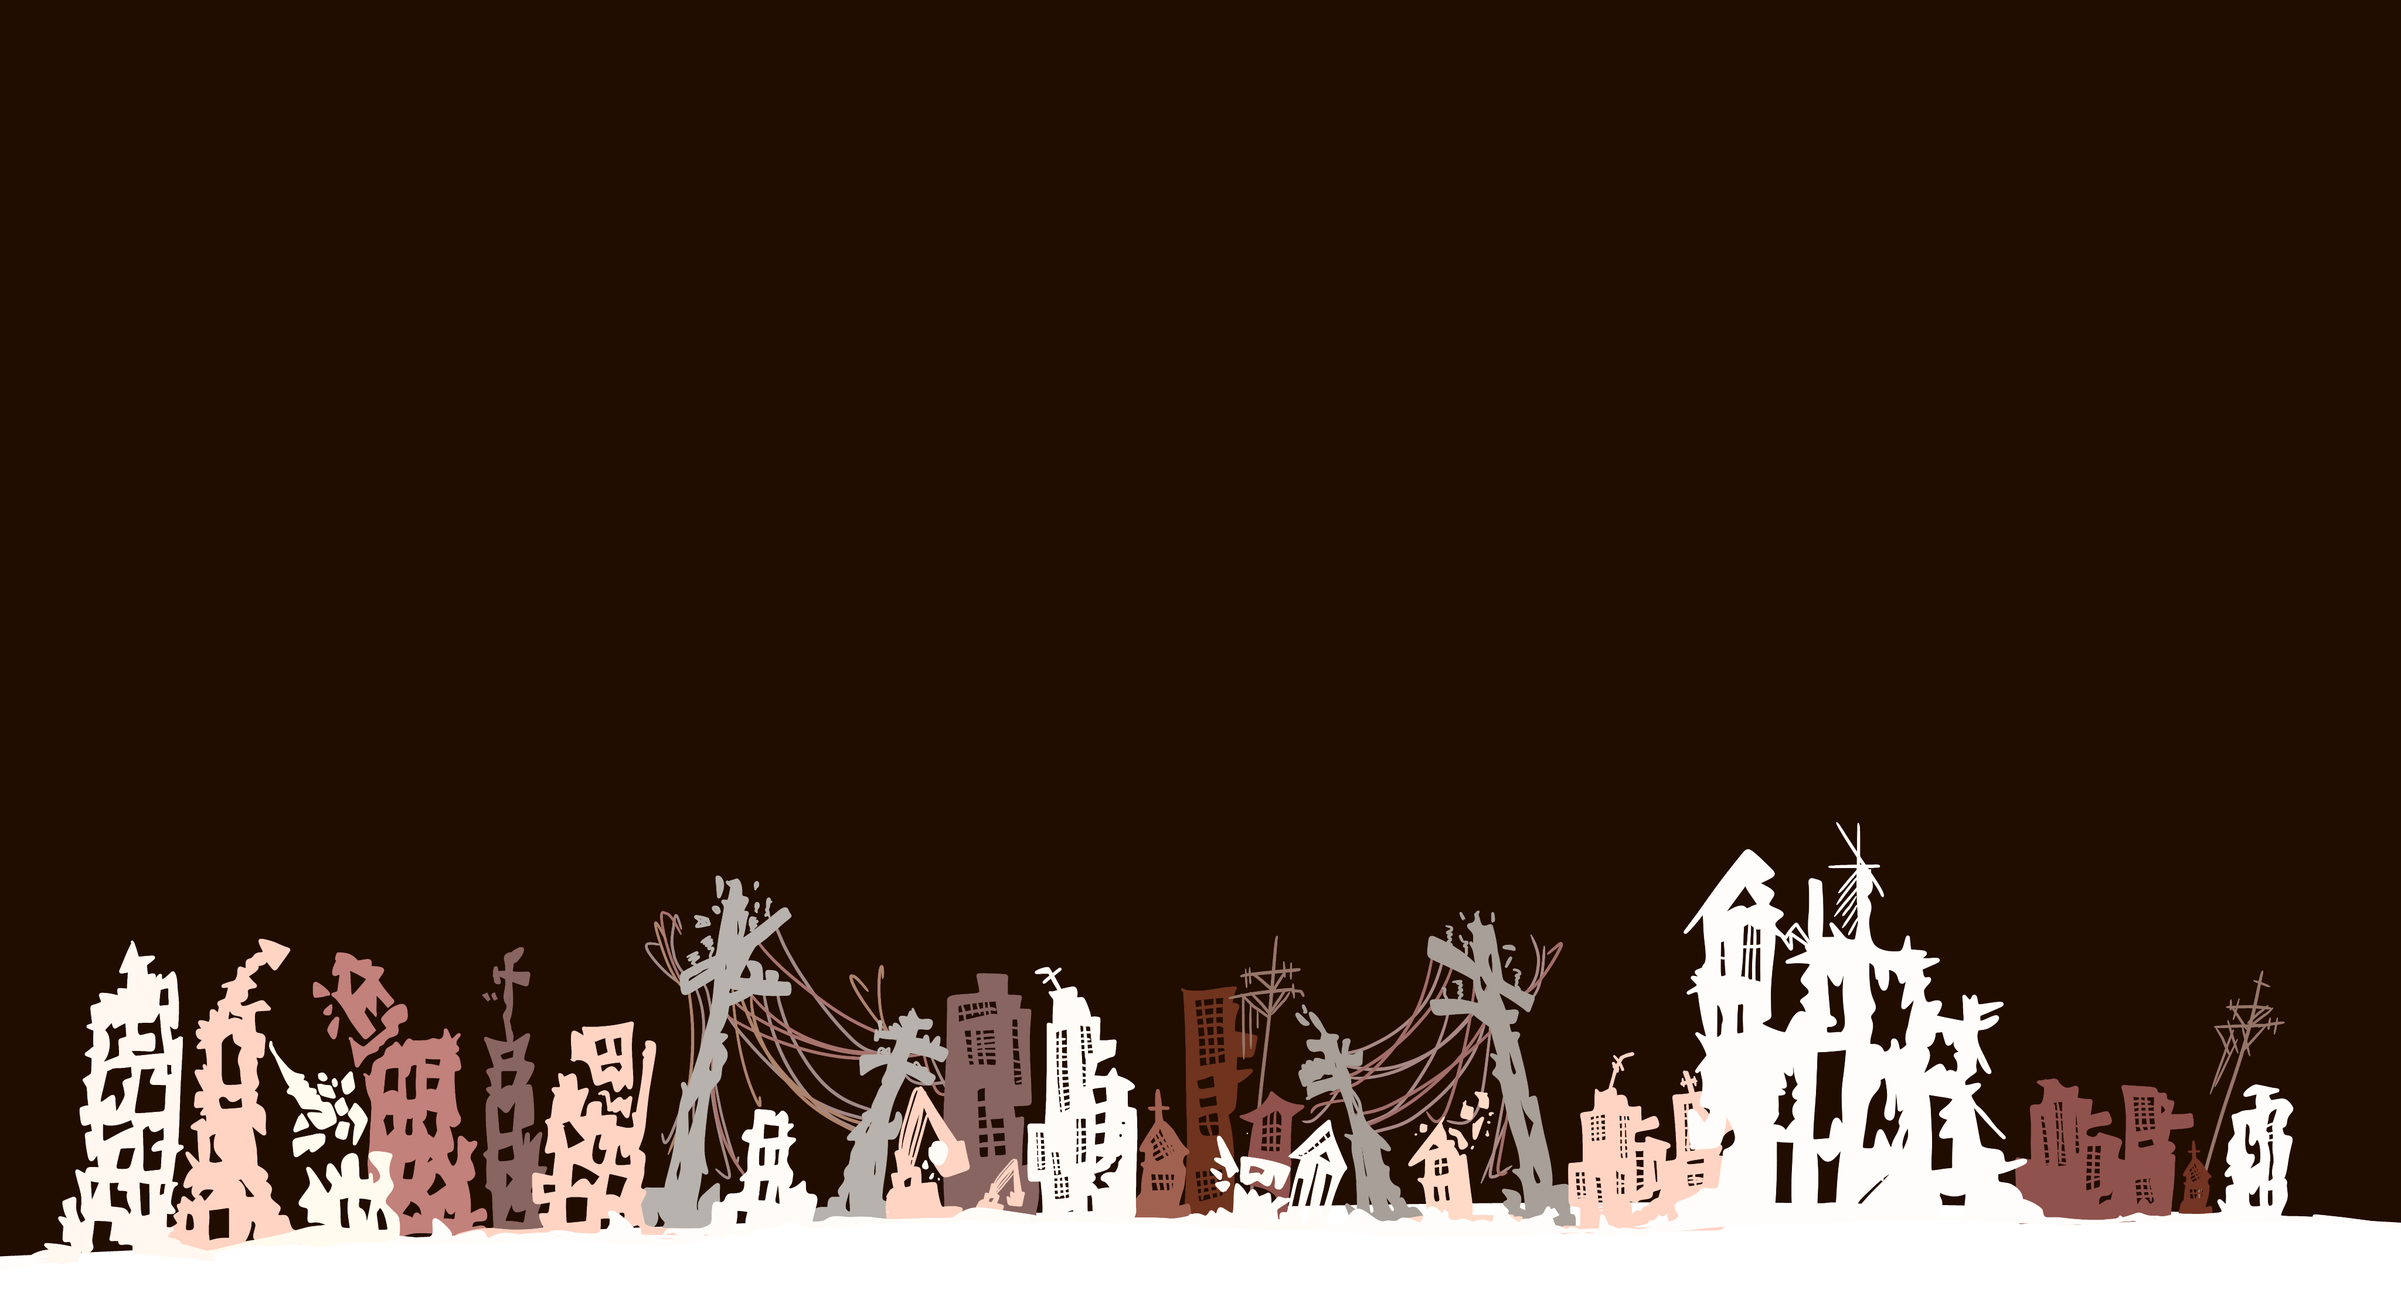
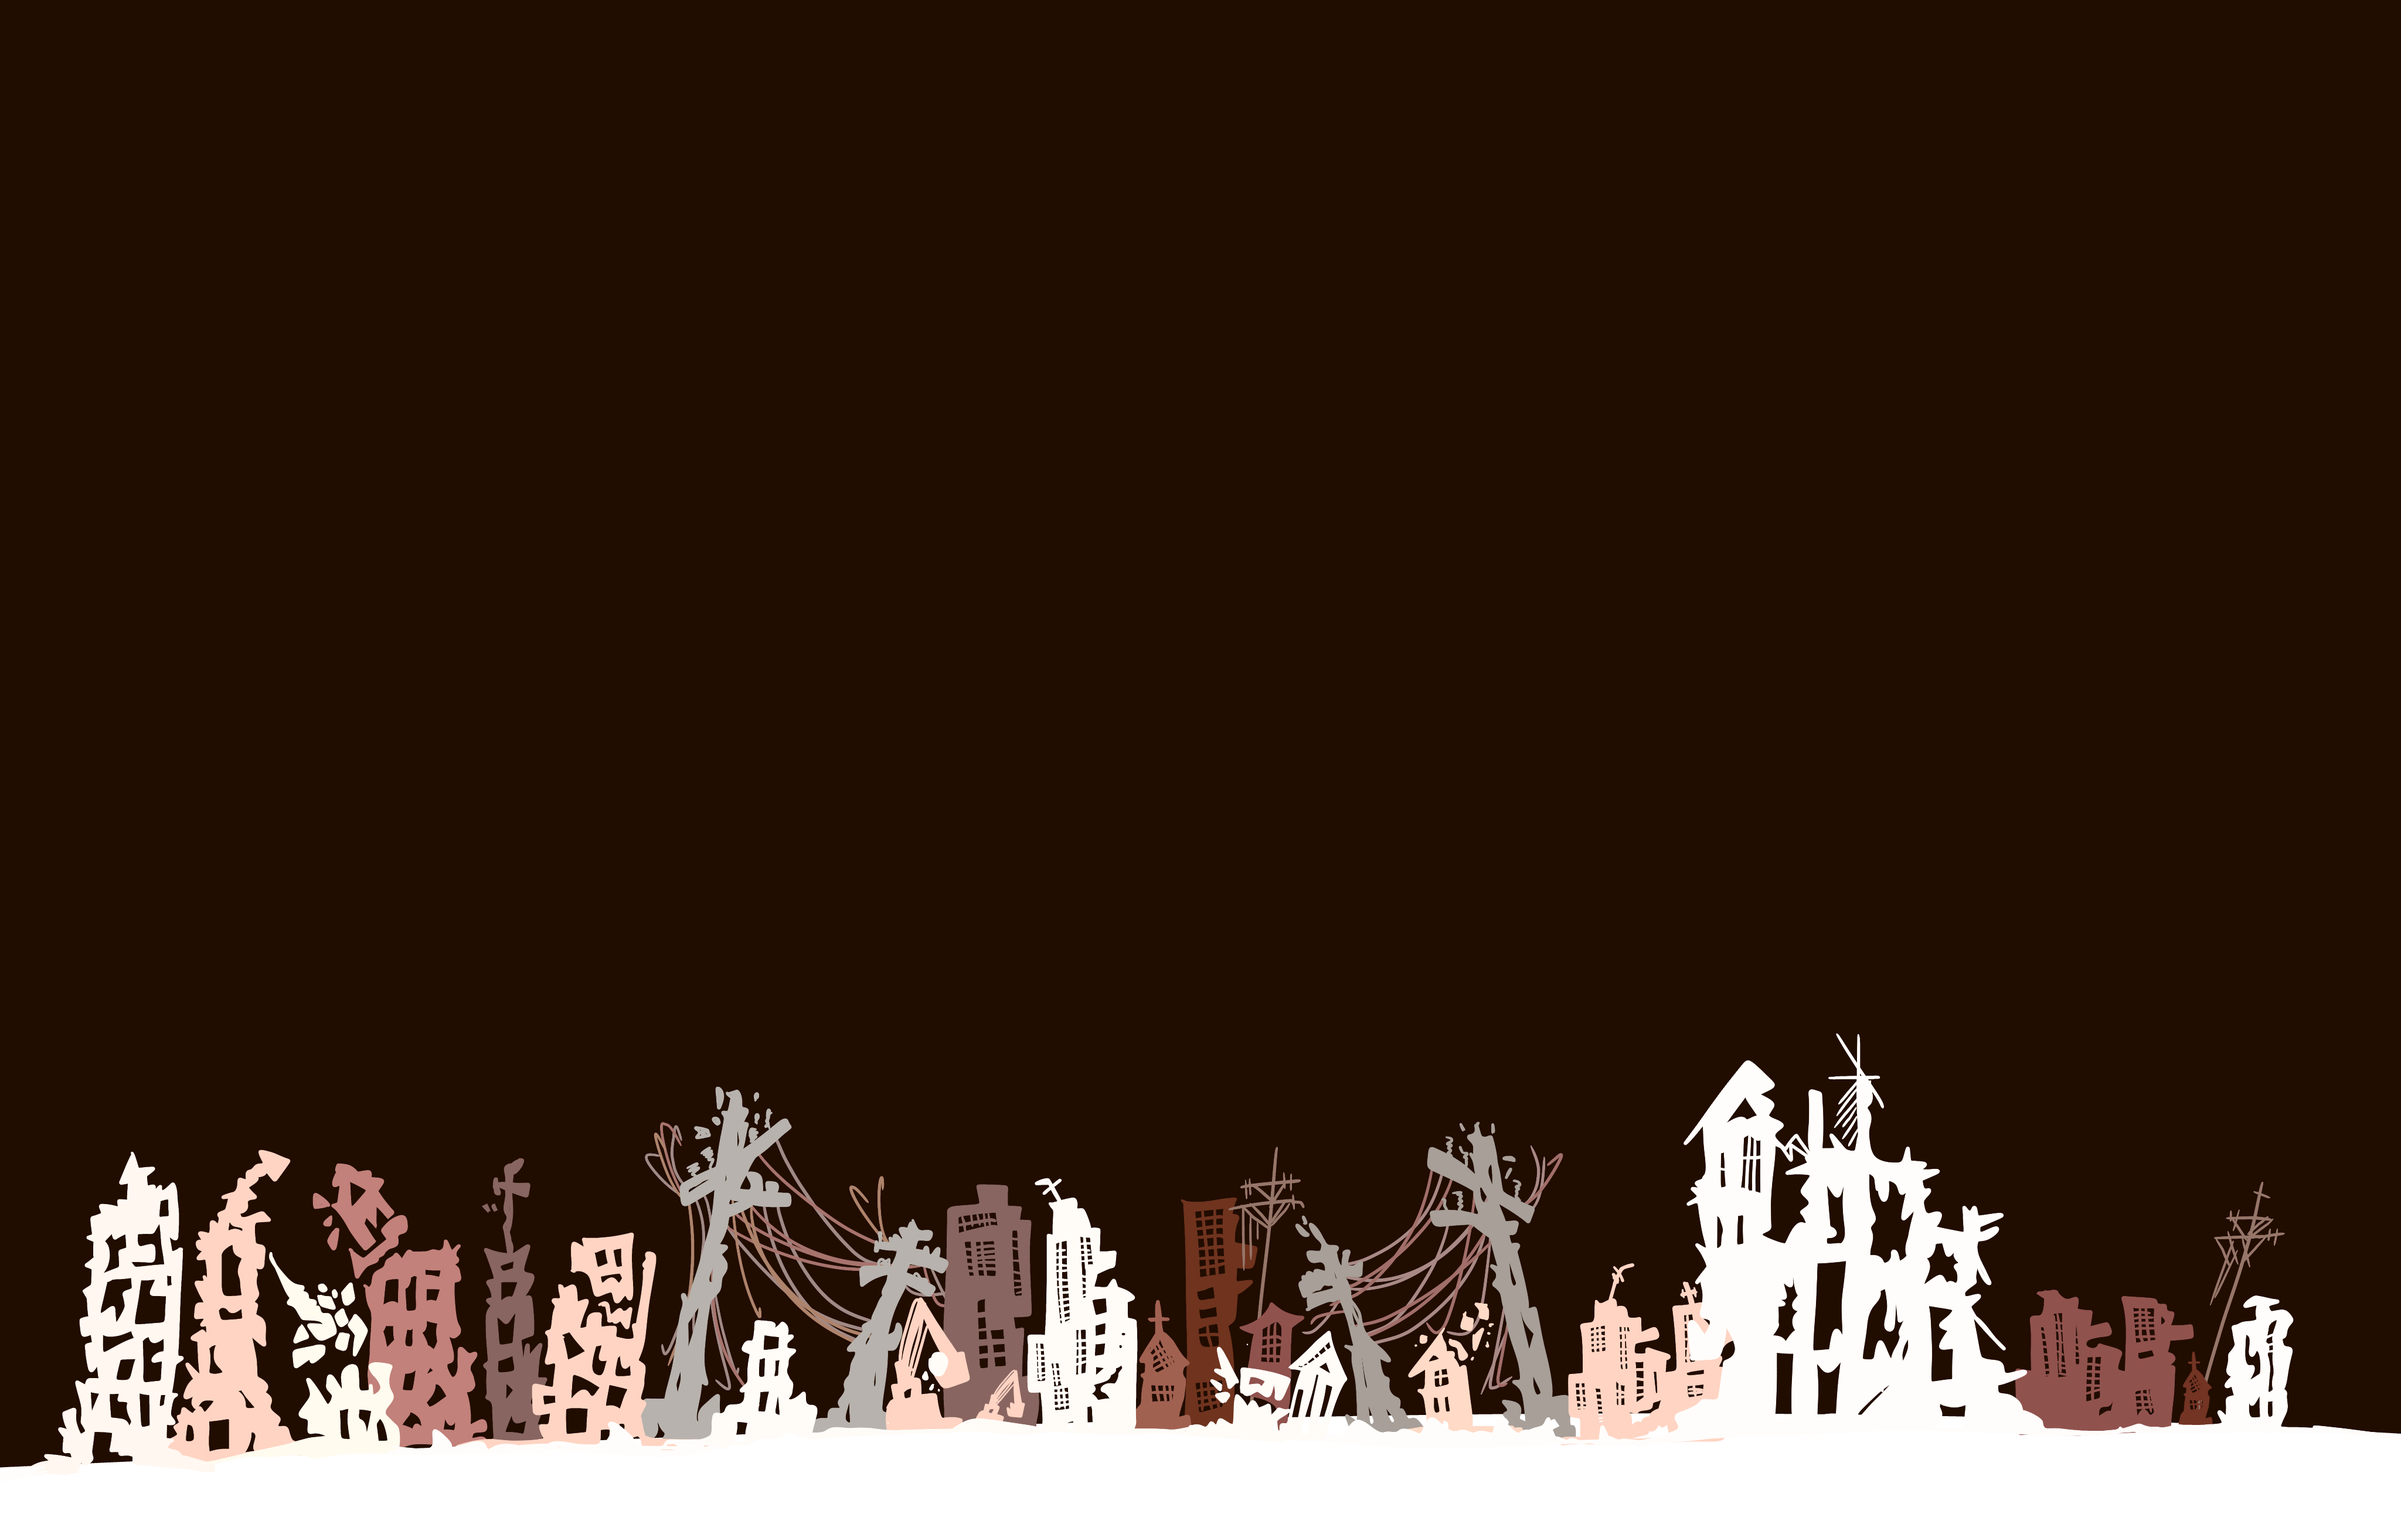
april21_2

Changed region(s): [[0.0, 0.6518, 1.0, 0.9933]]

diff --git a/earthquake1500/style.css b/earthquake1500/style.css
@@ -13,7 +13,7 @@ body {
 .hero-image {
   background-image: url("images/background.png");
   background-size: 100% auto;
-  background-position: center bottom;
+  background-position: center 100%;
   background-repeat: no-repeat;
   height: 55vh;
   min-height: 320px;
@@ -35,7 +35,7 @@ body {
   font-size: 78px;
   line-height: 1.05;
   margin: 0;
-  color: #222222;
+  color: #5A3E2B;
   background-color: transparent;
   padding: 0;
   letter-spacing: 1px;
@@ -47,7 +47,7 @@ body {
   font-family: "Trebuchet MS", sans-serif;
   font-size: 25px;
   line-height: 1.35;
-  color: #444444;
+  color: #8B6B4A;
   margin-top: 12px;
   margin-bottom: 22px;
   background-color: transparent;
@@ -58,7 +58,7 @@ body {
   font-family: "Trebuchet MS", sans-serif;
   font-size: 18px;
   line-height: 1.3;
-  color: #666666;
+  color: #A28367;
   margin-top: 18px;
   background-color: transparent;
   padding: 0;
@@ -176,7 +176,7 @@ a:hover {
 @media (max-width: 768px) {
   .hero-image {
     background-size: contain;
-    background-position: center bottom;
+    background-position: center 30%;
     background-repeat: no-repeat;
     height: 38vh;
     min-height: 220px;
